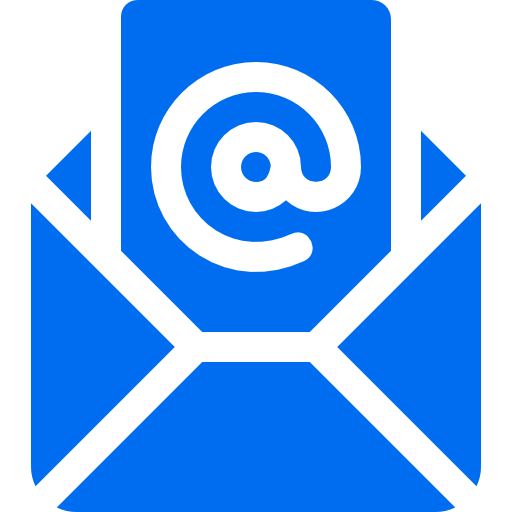
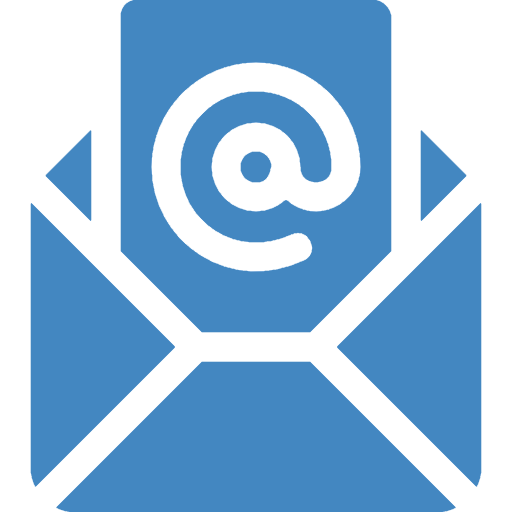
Add files via upload

diff --git a/index.html b/index.html
@@ -7,13 +7,14 @@
     <link rel="stylesheet" href="css/style.css">
     <link rel="stylesheet" href="css/reset.css">
     <link href="https://fonts.googleapis.com/css?family=Marmelad|Roboto&display=swap" rel="stylesheet">
+    <link rel="shortcut icon" href="icons/favicon.ico" type="image/x-icon">
 </head>
 <body>
     <div class="wrapper">
         <div class="wrap">
             <div class="head_div">
                 <img src="icons/web.png" alt="" id="logo">
-                <h3 class="head_h3"> GO TO <div style="color: red; margin-left: 8px;">TOP</div></h3>
+                <h3 class="head_h3"> GO TO <div style="color: tomato; margin-left: 8px;">TOP</div></h3>
             </div>
             <div class="nav">
                 <a href="index.html" class="nav_a">Главная</a>
@@ -32,34 +33,34 @@
             </div>
         <div class="grey">
             <div class="wrap">
-                <div class="card">
+                <div class="card card_height">
                     <div class="card_img_div"><img src="icons/computer.png" alt="" class="card_img"></div>
                     <h5 class="card_h5">СОЗДАДИМ ПРОДАЮЩИЙ САЙТ</h5>
                     <p class="card_p">Нету сайта?Не беда.Наши специалисты разработают оптимизированный продающий сайт для Вашей компании в минимальные сроки.</p>
                 </div>
-                <div class="card">
+                <div class="card card_height">
                     <div class="card_img_div"><img src="icons/networking2.png" alt="" class="card_img"></div>
                     <h5 class="card_h5">ВЫБЕРЕМ АУДИТОРИЮ</h5>
-                    <p class="card_p">Составим аудиторию.Ваших потонциальных клиентов для качественных продаж.</p>
+                    <p class="card_p ">Составим аудиторию.Ваших потонциальных клиентов для качественных продаж.</p>
                 </div>
-                <div class="card">
+                <div class="card card_height">
                     <div class="card_img_div"><img src="icons/settings.png" alt="" class="card_img"></div>
                     <h5 class="card_h5">НАСТРОИМ СТАТИСТИКУ</h5>
-                    <p class="card_p">Настроим статистику сайта,будем анализировать действия пользователей и улучшать функционал.</p>
+                    <p class="card_p ">Настроим статистику сайта,будем анализировать действия пользователей и улучшать функционал.</p>
                 </div>
             </div>
             <div class="wrap_too">
-                <div class="card">
+                <div class="card card_height">
                     <div class="card_img_div"><img src="icons/networking.png" alt="" class="card_img"></div>
                     <h5 class="card_h5">РАЗОВЬЕМ СОЦ.СЕТИ</h5>
                     <p class="card_p">Для качественных продаж крайне необходимо вести активную деятельность в социалных сетях. Наши специалисты комплексно подойдут к вопросу привлечения клиентов через соц. сети.</p>
                 </div>
-                <div class="card">
+                <div class="card card_height">
                     <div class="card_img_div"><img src="icons/laptop.png" alt="" class="card_img"></div>
                     <h5 class="card_h5">МИНИМИЗИРУЕМ БЮДЖЕТ</h5>
                     <p class="card_p">Главное не тратить деньги в пустую. Мы следим за тем, какая реклама дают максимальный результат и стремимся найти самые активные точки продаж для минимизации рекламного бюджета.</p>
                 </div>
-                <div class="card">
+                <div class="card card_height">
                     <div class="card_img_div"><img src="icons/startup.png" alt="" class="card_img"></div>
                     <h5 class="card_h5">ПРИВЛЕЧЕМ КЛИЕНТОВ</h5>
                     <p class="card_p">Наша цель - максимальное количество киентов для Ваших продаж. Мы работаем по всем направления в интернет-маркетинге для того, чтобы найти именно Ваших потенциальных клиентов!</p>
@@ -155,18 +156,18 @@
                 <div>
             </div>
         </div>
-        <div style="background-color: #161616;">
+        <div style="background-color: #242424;">
             <div class="wrap" id="contact">
                 <div class="final">
                     <div class="card card_fin">
                         <h5 class="final_h5" style="margin-right: 225px;">О НАС</h5>
-                        <p class="final_p">Мы оказываем всестороннюю помощь компаниям и физическим лицам — собственникам веб-ресурсов, которые готовы использовать сайт, как эффективный рекламный инструмент, позволяющий развивать бизнес.</p>
+                        <p class="final_p line">Мы оказываем всестороннюю помощь компаниям и физическим лицам — собственникам веб-ресурсов, которые готовы использовать сайт, как эффективный рекламный инструмент, позволяющий развивать бизнес.</p>
                         
                     </div>
                     <div class="card card_fin">
                         <h5 class="final_h5">ЧИТАЙТЕ В НОВОСТЯХ</h5>
-                        <div>
-                            <a href="new1.html" class="final_p final_p_hover">Новые разработки</a>
+                        <div style="margin-top: 13px;">
+                            <a href="new1.html" class="final_p final_p_hover" >Новые разработки</a>
                            <a href="new2.html" style="text-decoration: none;"><p class="final_p final_p_hover">Мы работаем, вы отдыхаете</p></a>
                         </div>
                     </div>
@@ -182,7 +183,7 @@
                 </div>
             </div>
         </div>
-        <div style="background-color: black;">
+        <div style="background-color:  rgb(29, 29, 29);">
             <div class="wrap">
                 <p class="down_inf">2018 Все права защищены</p>
             </div>

diff --git a/css/style.css b/css/style.css
@@ -9,6 +9,10 @@ html{
     --font-parag: 'Roboto', sans-serif;
     --size-parag: 17px;
     --size-header: 35px;
+    --color-bg:#F3F2F1;
+    --color-h:#4387C1;
+    --color-p: #3D57A7;
+    --color-text: #63D5F1;
 }
 
 
@@ -42,7 +46,7 @@ html{
     display: flex;
     margin-left: 20px;
     font-family: var(--font-header);
-    color: #22a7f0;
+    color: var(--color-h);
 }
 
 #logo{
@@ -63,7 +67,7 @@ html{
     text-decoration: none;
 }
 .nav_a:hover{
-    color: #22a7f0;
+    color: var(--color-text);
 }
 
 .promo{
@@ -105,12 +109,12 @@ html{
 
 .promo_but:hover{
     cursor: pointer;
-    border: 3px solid #22a7f0;
-    color: #22a7f0;
+    border: 3px solid var(--color-text);
+    color: var(--color-text);
 }
 
 .grey{
-    background-color: #f8f8f8;
+    background-color: var(--color-bg);
 }
 .card{
     width: 450px;
@@ -118,12 +122,14 @@ html{
     flex-direction: column;
     align-items: center;
     text-align: center;
+    
+}
+
+.card_height{
+    height: 250px;
 }
 
 .card_img_div{
-    display: flex;
-    justify-content: center;
-    align-items: center;
     height: 70px;
     margin-bottom: 15px;
 }
@@ -135,11 +141,12 @@ html{
 .card_h5{
     font-family: var(--font-header);
     font-size: 18px;
-    color: #22a7f0;
+    color: var(--color-h);
 }
 .card_p{
     font-family: var(--font-parag);
     font-size: var(--size-parag);
+    line-height: 25px;
     margin: 20px;
 }
 
@@ -149,7 +156,7 @@ html{
     align-items: center;
     height: 10vh;
     width: auto;
-    background-color: #22a7f0;
+    background-color: var(--color-h);
 }
 
 .info_h3{
@@ -171,7 +178,7 @@ html{
 
 .info_but:hover{
     cursor: pointer;
-    color: #22a7f0;
+    color: var(--color-h);
     background-color: white;
 }
 
@@ -185,7 +192,7 @@ html{
 .works{
     font-family: var(--font-header);
     font-size: 32px;
-    color: #22a7f0;
+    color: var(--color-h);
     text-transform:uppercase;
 }
 
@@ -241,12 +248,12 @@ html{
 
 .news_a{
     margin-left: 200px;
-    color: #22a7f0;
+    color: var(--color-h);
     text-decoration: none;
 }
 
 .news_a:hover{
-    color: palevioletred;
+    color: #63D5F1;
 }
 
 .msg{
@@ -256,7 +263,7 @@ html{
 
 .msg_input{
     margin: 7px;
-    border: 4px solid #22a7f0;
+    border: 4px solid var(--color-h);
     width: 500px;
     height: 40px;
     font-family: var(--font-parag);
@@ -266,8 +273,8 @@ html{
 .msg_but{
     margin: 7px;
     color: white;
-    border: 4px solid #22a7f0;
-    background-color: #22a7f0;
+    border: 4px solid var(--color-h);
+    background-color: var(--color-h);
     width: 507px;
     height: 45px;
     font-family: var(--font-parag);
@@ -276,14 +283,14 @@ html{
 
 .msg_but:hover{
     color: white;
-    border: 4px solid skyblue;
-    background-color: skyblue;
+    border: 4px solid var(--color-p);
+    background-color: var(--color-p);
     cursor: pointer;
 }
 
 .msg_input_text{
     padding: 0 0 100px;
-    border: 4px solid #22a7f0;
+    border: 4px solid var(--color-h);
     width: 500px;
     height: 69px;
     font-family: var(--font-parag);
@@ -304,7 +311,7 @@ html{
 .final_h5{
     font-family: var(--font-header);
     font-size: 18px;
-    color: #22a7f0;
+    color: var(--color-h);
     height: 50px;
 }
 
@@ -316,8 +323,12 @@ html{
     text-decoration: none;
 }
 
+.line{
+    line-height: 20px;
+}
+
 .final_p_hover:hover{
-    color: #22a7f0;
+    color: #63D5F1;
 }
 
 .final_img{

diff --git a/contact.html b/contact.html
@@ -7,6 +7,7 @@
     <link rel="stylesheet" href="css/style.css">
     <link rel="stylesheet" href="css/reset.css">
     <link href="https://fonts.googleapis.com/css?family=Marmelad|Roboto&display=swap" rel="stylesheet">
+    <link rel="shortcut icon" href="icons/favicon.ico" type="image/x-icon">
     <style>
         .new1_h5{
             font-weight: bold;
@@ -171,17 +172,17 @@
                 <div>
             </div>
         </div>
-        <div style="background-color: #161616;">
+        <div style="background-color: #242424;">
             <div class="wrap" id="contact">
                 <div class="final">
                     <div class="card card_fin">
                         <h5 class="final_h5" style="margin-right: 225px;">О НАС</h5>
-                        <p class="final_p">Мы оказываем всестороннюю помощь компаниям и физическим лицам — собственникам веб-ресурсов, которые готовы использовать сайт, как эффективный рекламный инструмент, позволяющий развивать бизнес.</p>
+                        <p class="final_p line">Мы оказываем всестороннюю помощь компаниям и физическим лицам — собственникам веб-ресурсов, которые готовы использовать сайт, как эффективный рекламный инструмент, позволяющий развивать бизнес.</p>
                         
                     </div>
                     <div class="card card_fin">
                         <h5 class="final_h5">ЧИТАЙТЕ В НОВОСТЯХ</h5>
-                        <div>
+                        <div style="margin-top: 13px;">
                             <a href="new1.html" class="final_p final_p_hover">Новые разработки</a>
                            <a href="#news" style="text-decoration: none;"><p class="final_p final_p_hover">Мы работаем, вы отдыхаете</p></a>
                         </div>
@@ -198,7 +199,7 @@
                 </div>
             </div>
         </div>
-        <div style="background-color: black;">
+        <div style="background-color: rgb(29, 29, 29);">
             <div class="wrap">
                 <p class="down_inf">2018 Все права защищены</p>
             </div>

diff --git a/new1.html b/new1.html
@@ -7,6 +7,7 @@
     <link rel="stylesheet" href="css/style.css">
     <link rel="stylesheet" href="css/reset.css">
     <link href="https://fonts.googleapis.com/css?family=Marmelad|Roboto&display=swap" rel="stylesheet">
+    <link rel="shortcut icon" href="icons/favicon.ico" type="image/x-icon">
     <style>
         .new1_h5{
             font-weight: bold;
@@ -90,17 +91,17 @@
                 <div>
             </div>
         </div>
-        <div style="background-color: #161616;">
+        <div style="background-color: #242424;">
             <div class="wrap" id="contact">
                 <div class="final">
                     <div class="card card_fin">
                         <h5 class="final_h5" style="margin-right: 225px;">О НАС</h5>
-                        <p class="final_p">Мы оказываем всестороннюю помощь компаниям и физическим лицам — собственникам веб-ресурсов, которые готовы использовать сайт, как эффективный рекламный инструмент, позволяющий развивать бизнес.</p>
+                        <p class="final_p line">Мы оказываем всестороннюю помощь компаниям и физическим лицам — собственникам веб-ресурсов, которые готовы использовать сайт, как эффективный рекламный инструмент, позволяющий развивать бизнес.</p>
                         
                     </div>
                     <div class="card card_fin">
                         <h5 class="final_h5">ЧИТАЙТЕ В НОВОСТЯХ</h5>
-                        <div>
+                        <div style="margin-top: 13px;">
                             <a href="#news" class="final_p final_p_hover">Новые разработки</a>
                            <a href="new2.html" style="text-decoration: none;"><p class="final_p final_p_hover">Мы работаем, вы отдыхаете</p></a>
                         </div>
@@ -117,7 +118,7 @@
                 </div>
             </div>
         </div>
-        <div style="background-color: black;">
+        <div style="background-color: rgb(29, 29, 29);">
             <div class="wrap">
                 <p class="down_inf">2018 Все права защищены</p>
             </div>

diff --git a/new2.html b/new2.html
@@ -7,6 +7,7 @@
     <link rel="stylesheet" href="css/style.css">
     <link rel="stylesheet" href="css/reset.css">
     <link href="https://fonts.googleapis.com/css?family=Marmelad|Roboto&display=swap" rel="stylesheet">
+    <link rel="shortcut icon" href="icons/favicon.ico" type="image/x-icon">
     <style>
         .new1_h5{
             font-weight: bold;
@@ -86,17 +87,17 @@
                 <div>
             </div>
         </div>
-        <div style="background-color: #161616;">
+        <div style="background-color: #242424;">
             <div class="wrap" id="contact">
                 <div class="final">
                     <div class="card card_fin">
                         <h5 class="final_h5" style="margin-right: 225px;">О НАС</h5>
-                        <p class="final_p">Мы оказываем всестороннюю помощь компаниям и физическим лицам — собственникам веб-ресурсов, которые готовы использовать сайт, как эффективный рекламный инструмент, позволяющий развивать бизнес.</p>
+                        <p class="final_p line">Мы оказываем всестороннюю помощь компаниям и физическим лицам — собственникам веб-ресурсов, которые готовы использовать сайт, как эффективный рекламный инструмент, позволяющий развивать бизнес.</p>
                         
                     </div>
                     <div class="card card_fin">
                         <h5 class="final_h5">ЧИТАЙТЕ В НОВОСТЯХ</h5>
-                        <div>
+                        <div style="margin-top: 13px;">
                             <a href="new1.html" class="final_p final_p_hover">Новые разработки</a>
                            <a href="#news" style="text-decoration: none;"><p class="final_p final_p_hover">Мы работаем, вы отдыхаете</p></a>
                         </div>
@@ -113,7 +114,7 @@
                 </div>
             </div>
         </div>
-        <div style="background-color: black;">
+        <div style="background-color: #242424;">
             <div class="wrap">
                 <p class="down_inf">2018 Все права защищены</p>
             </div>
